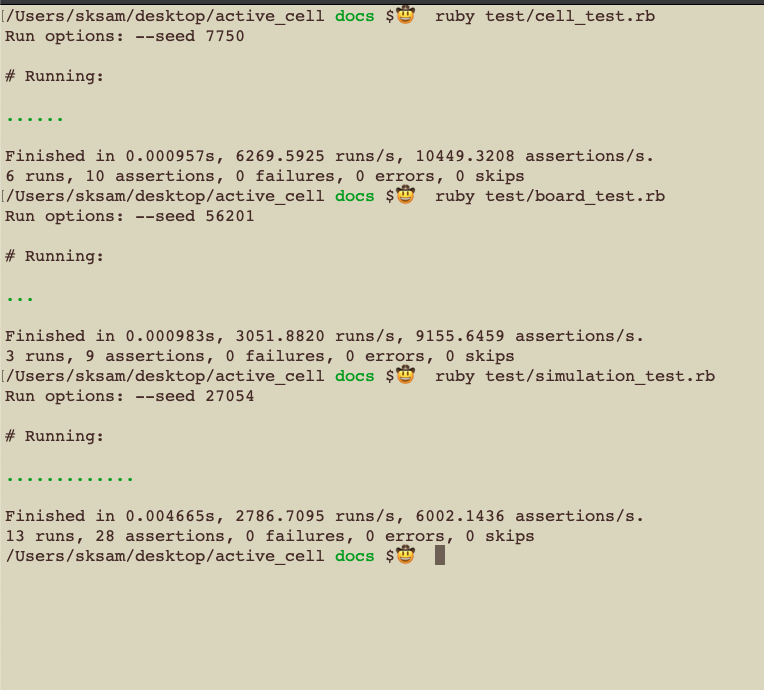
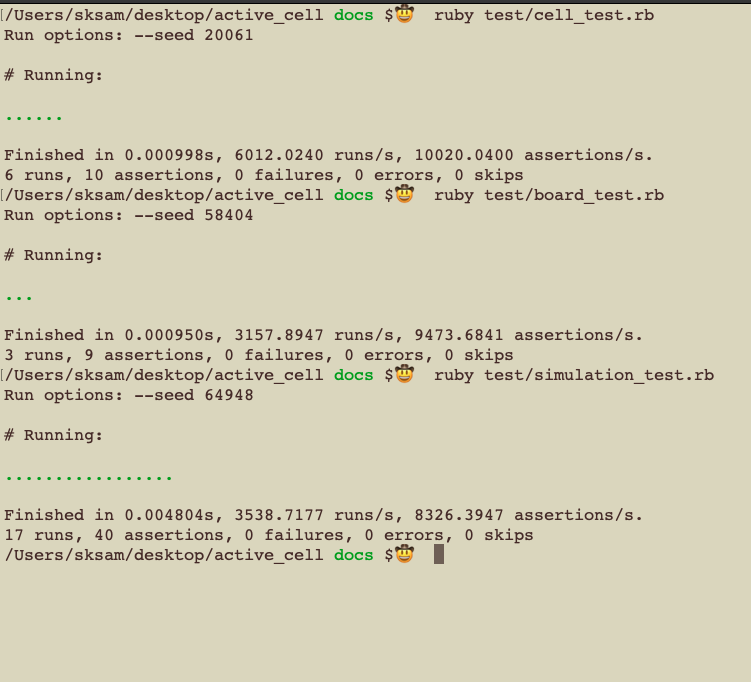
Add updated image of tests passing, update README

diff --git a/README.md b/README.md
@@ -4,11 +4,11 @@
 Tests may not run locally based on Gem conflicts vs your local machine. I'm including a link to the pictures of all tests passing via MiniTest here. Running the `runner.rb` from the root directory will still work fine to run the program's CLI.
 
 ## Description
-This exercise is based on a 3x3 grid which counts cells around the "focus/target" cell. The core prompt asks to place the target cell in the center of the grid given the context of a cell residing in a 3x3 grid with 8 neighbors. As of right now, only the core functionality was tackled to completion. 100% tests passing for each Class with the `runner.rb` replicating any 3x3 grid scenario by generating grids with randomly placed active cells.
+This exercise is based on a 3x3 grid which counts cells around the "focus/target" cell. The core prompt asks to place the target cell in the center of the grid given the context of a cell residing in a 3x3 grid with 8 neighbors. User can also target a cell based on input within the 3x3 grid. 100% tests passing for each Class with the `runner.rb` replicating any 3x3 grid scenario by generating grids with randomly placed active cells.
 
 A `Simulation` generates a `Board` which in turn generates an Array of Array of `Cells`. Following OOP, a `Cell` only knows about itself, a `Board` only knows about itself and its `Cells`, and a `Simulation` is an omniscient being which checks the placement of active/inactive cells, where the target cell is, and can count the # of neighbor cells are active around the target cell. The `Logic` class will handle how the user input is directed along with validating bad/good inputs. `Logic.checkpoint` is a "controller" of how the flow of the program will run, and each action post-user input should lead towards this method.
 
-In terms of extensions, I was able to implement majority of the user-choice target cell(user can choose where to place the target cell) but haven't tested the functionality so it is commented out for now.
+In terms of extensions, I was able to implement the user-choice target cell(user can choose where to place the target cell). Active Neighbor Cell checks are dynamic and can be called from anywhere in the grid.
 
 This program is prepped for larger grids because the grid bounds are set dynamically based on array size. Throughout the project, only 3x3 grids are being used as proof of concept thus far. 
 
